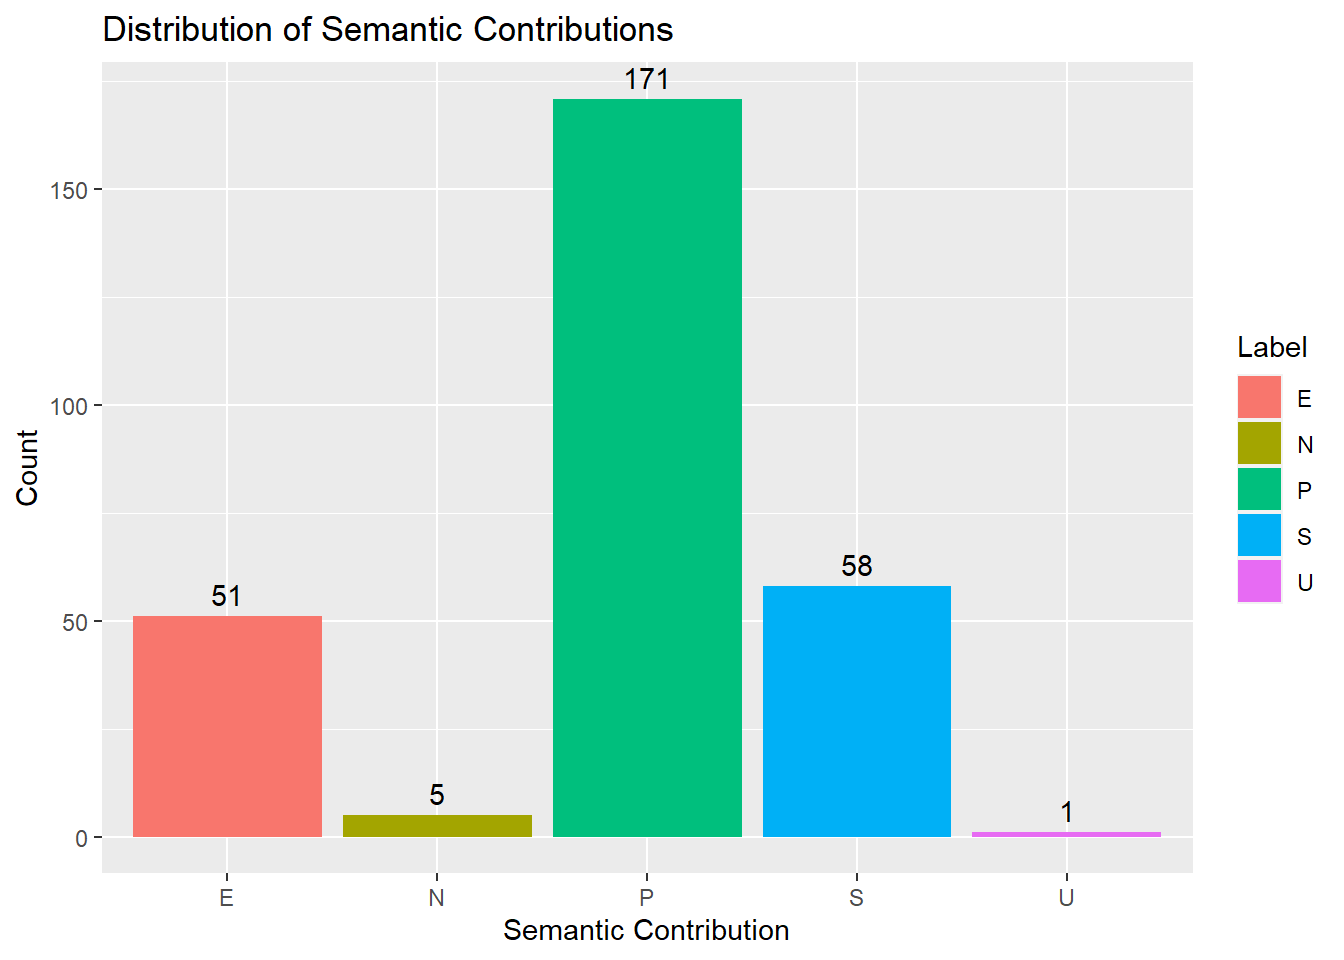
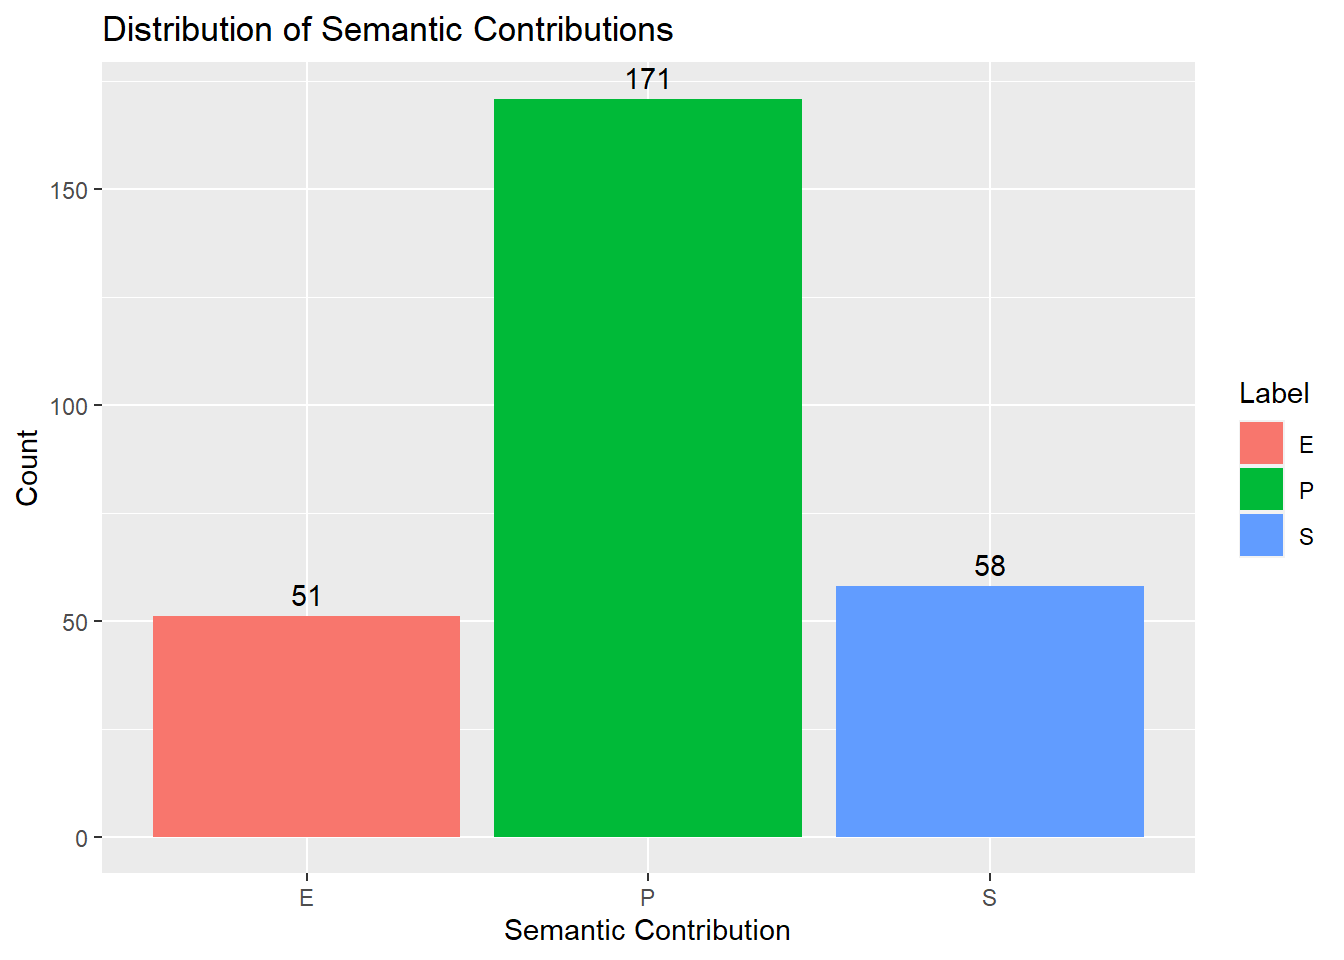
update stats

diff --git a/scripts/ReduplicationFinal.html b/scripts/ReduplicationFinal.html
@@ -97,17 +97,17 @@ pre > code.sourceCode > span > a:first-child::before { text-decoration: underlin
 <section id="data" class="level2">
 <h2 class="anchored" data-anchor-id="data">Data</h2>
 <div class="cell">
-<div class="sourceCode cell-code" id="cb1"><pre class="sourceCode r code-with-copy"><code class="sourceCode r"><span id="cb1-1"><a href="#cb1-1" aria-hidden="true" tabindex="-1"></a>data <span class="ot">&lt;-</span> <span class="fu">read.csv</span>(<span class="st">"../data/salad_consolidated.csv"</span>)</span>
+<div class="sourceCode cell-code" id="cb1"><pre class="sourceCode r code-with-copy"><code class="sourceCode r"><span id="cb1-1"><a href="#cb1-1" aria-hidden="true" tabindex="-1"></a>data <span class="ot">&lt;-</span> <span class="fu">read.csv</span>(<span class="st">"../data/salad_consolidated_refined.csv"</span>)</span>
 <span id="cb1-2"><a href="#cb1-2" aria-hidden="true" tabindex="-1"></a></span>
 <span id="cb1-3"><a href="#cb1-3" aria-hidden="true" tabindex="-1"></a><span class="fu">head</span>(data)</span></code><button title="Copy to Clipboard" class="code-copy-button"><i class="bi"></i></button></pre></div>
 <div class="cell-output cell-output-stdout">
 <pre><code>        Word Label POS
 1       adam     S  NN
-2      again     N  RB
+2 aggressive     P  JJ
 3 aggressive     P  JJ
-4 aggressive     P  JJ
-5      alone     E  JJ
-6    amherst     P  NN</code></pre>
+4      alone     E  JJ
+5    amherst     P  NN
+6   anywhere     E  RB</code></pre>
 </div>
 </div>
 <div class="cell">
@@ -151,12 +151,15 @@ pre > code.sourceCode > span > a:first-child::before { text-decoration: underlin
 <span id="cb6-4"><a href="#cb6-4" aria-hidden="true" tabindex="-1"></a><span class="fu">summary</span>(data)</span></code><button title="Copy to Clipboard" class="code-copy-button"><i class="bi"></i></button></pre></div>
 <div class="cell-output cell-output-stdout">
 <pre><code>     Word              Label               POS           
- Length:286         Length:286         Length:286        
+ Length:280         Length:280         Length:280        
  Class :character   Class :character   Class :character  
  Mode  :character   Mode  :character   Mode  :character  </code></pre>
 </div>
 <div class="sourceCode cell-code" id="cb8"><pre class="sourceCode r code-with-copy"><code class="sourceCode r"><span id="cb8-1"><a href="#cb8-1" aria-hidden="true" tabindex="-1"></a><span class="fu">ggplot</span>(data, <span class="fu">aes</span>(<span class="at">x =</span> POS, <span class="at">fill =</span> Label)) <span class="sc">+</span></span>
-<span id="cb8-2"><a href="#cb8-2" aria-hidden="true" tabindex="-1"></a>  <span class="fu">geom_bar</span>()</span></code><button title="Copy to Clipboard" class="code-copy-button"><i class="bi"></i></button></pre></div>
+<span id="cb8-2"><a href="#cb8-2" aria-hidden="true" tabindex="-1"></a>  <span class="fu">geom_bar</span>() <span class="sc">+</span> </span>
+<span id="cb8-3"><a href="#cb8-3" aria-hidden="true" tabindex="-1"></a>  <span class="fu">labs</span>(<span class="at">title =</span> <span class="st">"Distribution of Semantic Contributions by POS"</span>,</span>
+<span id="cb8-4"><a href="#cb8-4" aria-hidden="true" tabindex="-1"></a>       <span class="at">x =</span> <span class="st">"POS"</span>,</span>
+<span id="cb8-5"><a href="#cb8-5" aria-hidden="true" tabindex="-1"></a>       <span class="at">y =</span> <span class="st">"Count"</span>)</span></code><button title="Copy to Clipboard" class="code-copy-button"><i class="bi"></i></button></pre></div>
 <div class="cell-output-display">
 <p><img src="ReduplicationFinal_files/figure-html/unnamed-chunk-5-1.png" class="img-fluid" width="672"></p>
 </div>
@@ -167,12 +170,10 @@ pre > code.sourceCode > span > a:first-child::before { text-decoration: underlin
 <div class="cell">
 <div class="sourceCode cell-code" id="cb9"><pre class="sourceCode r code-with-copy"><code class="sourceCode r"><span id="cb9-1"><a href="#cb9-1" aria-hidden="true" tabindex="-1"></a>model <span class="ot">&lt;-</span> <span class="fu">multinom</span>(Label <span class="sc">~</span> POS, <span class="at">data =</span> data)</span></code><button title="Copy to Clipboard" class="code-copy-button"><i class="bi"></i></button></pre></div>
 <div class="cell-output cell-output-stdout">
-<pre><code># weights:  25 (16 variable)
-initial  value 460.299243 
-iter  10 value 272.450224
-iter  20 value 266.662545
-iter  30 value 266.619641
-final  value 266.619586 
+<pre><code># weights:  15 (8 variable)
+initial  value 307.611441 
+iter  10 value 238.451445
+final  value 238.446464 
 converged</code></pre>
 </div>
 <div class="sourceCode cell-code" id="cb11"><pre class="sourceCode r code-with-copy"><code class="sourceCode r"><span id="cb11-1"><a href="#cb11-1" aria-hidden="true" tabindex="-1"></a><span class="fu">summary</span>(model)</span></code><button title="Copy to Clipboard" class="code-copy-button"><i class="bi"></i></button></pre></div>
@@ -181,21 +182,82 @@ converged</code></pre>
 multinom(formula = Label ~ POS, data = data)
 
 Coefficients:
-  (Intercept)     POSNN      POSRB     POSVB
-N -18.6967722 17.310567 17.0874910 17.087369
-P   0.1880767  1.990486  0.3997534  1.247070
-S  -1.7579044  2.769484  2.6334065  2.227932
-U -17.4119989  1.150131  2.6829862 15.802574
+  (Intercept)    POSNN     POSRB    POSVB
+P   0.1880563 1.990487 0.3997348 1.247021
+S  -1.7578396 2.769452 2.6332902 2.227846
 
 Std. Errors:
-  (Intercept)       POSNN       POSRB       POSVB
-N   0.4195643   0.6199648   0.8808955   0.8809328
-P   0.2511057   0.3947439   0.6116954   0.5573874
-S   0.4842460   0.5900282   0.7196073   0.7480007
-U 267.5999250 113.3650305 360.9085057 267.6010466
+  (Intercept)     POSNN     POSRB     POSVB
+P   0.2511061 0.3947435 0.6116885 0.5573802
+S   0.4842312 0.5900145 0.7195921 0.7479828
 
-Residual Deviance: 533.2392 
-AIC: 565.2392 </code></pre>
+Residual Deviance: 476.8929 
+AIC: 492.8929 </code></pre>
+</div>
+</div>
+<div class="cell">
+<div class="sourceCode cell-code" id="cb13"><pre class="sourceCode r code-with-copy"><code class="sourceCode r"><span id="cb13-1"><a href="#cb13-1" aria-hidden="true" tabindex="-1"></a>z <span class="ot">&lt;-</span> <span class="fu">summary</span>(model)<span class="sc">$</span>coefficients<span class="sc">/</span><span class="fu">summary</span>(model)<span class="sc">$</span>standard.errors</span>
+<span id="cb13-2"><a href="#cb13-2" aria-hidden="true" tabindex="-1"></a>z</span></code><button title="Copy to Clipboard" class="code-copy-button"><i class="bi"></i></button></pre></div>
+<div class="cell-output cell-output-stdout">
+<pre><code>  (Intercept)    POSNN     POSRB    POSVB
+P   0.7489118 5.042483 0.6534942 2.237289
+S  -3.6301656 4.693871 3.6594206 2.978472</code></pre>
+</div>
+</div>
+<div class="cell">
+<div class="sourceCode cell-code" id="cb15"><pre class="sourceCode r code-with-copy"><code class="sourceCode r"><span id="cb15-1"><a href="#cb15-1" aria-hidden="true" tabindex="-1"></a>p <span class="ot">&lt;-</span> (<span class="dv">1</span> <span class="sc">-</span> <span class="fu">pnorm</span>(<span class="fu">abs</span>(z), <span class="dv">0</span>, <span class="dv">1</span>)) <span class="sc">*</span> <span class="dv">2</span></span>
+<span id="cb15-2"><a href="#cb15-2" aria-hidden="true" tabindex="-1"></a>p</span></code><button title="Copy to Clipboard" class="code-copy-button"><i class="bi"></i></button></pre></div>
+<div class="cell-output cell-output-stdout">
+<pre><code>   (Intercept)        POSNN        POSRB       POSVB
+P 0.4539103580 4.595306e-07 0.5134377591 0.025267459
+S 0.0002832394 2.680833e-06 0.0002527862 0.002896896</code></pre>
+</div>
+</div>
+<div class="cell">
+<div class="sourceCode cell-code" id="cb17"><pre class="sourceCode r code-with-copy"><code class="sourceCode r"><span id="cb17-1"><a href="#cb17-1" aria-hidden="true" tabindex="-1"></a><span class="fu">head</span>(pp <span class="ot">&lt;-</span> <span class="fu">fitted</span>(model), <span class="at">n=</span><span class="dv">20</span>)</span></code><button title="Copy to Clipboard" class="code-copy-button"><i class="bi"></i></button></pre></div>
+<div class="cell-output cell-output-stdout">
+<pre><code>            E         P          S
+1  0.07946939 0.7019874 0.21854326
+2  0.42028842 0.5072467 0.07246485
+3  0.42028842 0.5072467 0.07246485
+4  0.42028842 0.5072467 0.07246485
+5  0.07946939 0.7019874 0.21854326
+6  0.19230901 0.3461578 0.46153322
+7  0.07946939 0.7019874 0.21854326
+8  0.07946939 0.7019874 0.21854326
+9  0.19230901 0.3461578 0.46153322
+10 0.07946939 0.7019874 0.21854326
+11 0.42028842 0.5072467 0.07246485
+12 0.42028842 0.5072467 0.07246485
+13 0.07946939 0.7019874 0.21854326
+14 0.07946939 0.7019874 0.21854326
+15 0.14705943 0.6176449 0.23529567
+16 0.07946939 0.7019874 0.21854326
+17 0.07946939 0.7019874 0.21854326
+18 0.42028842 0.5072467 0.07246485
+19 0.07946939 0.7019874 0.21854326
+20 0.07946939 0.7019874 0.21854326</code></pre>
+</div>
+</div>
+<p>Values repeat by POS, so extracting one example of each will give us the probability of having a certain semantic contribution given POS.</p>
+<p>Example 1: NN, Example 2: JJ, Example 6: RB, Example 15: VB</p>
+<div class="cell">
+<div class="sourceCode cell-code" id="cb19"><pre class="sourceCode r code-with-copy"><code class="sourceCode r"><span id="cb19-1"><a href="#cb19-1" aria-hidden="true" tabindex="-1"></a><span class="fu">library</span>(tibble)</span>
+<span id="cb19-2"><a href="#cb19-2" aria-hidden="true" tabindex="-1"></a></span>
+<span id="cb19-3"><a href="#cb19-3" aria-hidden="true" tabindex="-1"></a>(my_tibble <span class="ot">&lt;-</span> <span class="fu">tibble</span>(</span>
+<span id="cb19-4"><a href="#cb19-4" aria-hidden="true" tabindex="-1"></a>  <span class="at">Part.of.Speech =</span> <span class="fu">c</span>(<span class="st">"NN"</span>, <span class="st">"JJ"</span>, <span class="st">"RB"</span>, <span class="st">"VB"</span>),</span>
+<span id="cb19-5"><a href="#cb19-5" aria-hidden="true" tabindex="-1"></a>  <span class="at">E =</span> <span class="fu">c</span>(<span class="fl">0.07946939</span>, <span class="fl">0.42028842</span>, <span class="fl">0.19230901</span>, <span class="fl">0.14705943</span>),</span>
+<span id="cb19-6"><a href="#cb19-6" aria-hidden="true" tabindex="-1"></a>  <span class="at">P =</span> <span class="fu">c</span>(<span class="fl">0.7019874</span>, <span class="fl">0.5072467</span>, <span class="fl">0.3461578</span>, <span class="fl">0.6176449</span>),</span>
+<span id="cb19-7"><a href="#cb19-7" aria-hidden="true" tabindex="-1"></a>  <span class="at">S =</span> <span class="fu">c</span>(<span class="fl">0.21854326</span>, <span class="fl">0.07246485</span>, <span class="fl">0.46153322</span>, <span class="fl">0.23529567</span>)</span>
+<span id="cb19-8"><a href="#cb19-8" aria-hidden="true" tabindex="-1"></a>))</span></code><button title="Copy to Clipboard" class="code-copy-button"><i class="bi"></i></button></pre></div>
+<div class="cell-output cell-output-stdout">
+<pre><code># A tibble: 4 × 4
+  Part.of.Speech      E     P      S
+  &lt;chr&gt;           &lt;dbl&gt; &lt;dbl&gt;  &lt;dbl&gt;
+1 NN             0.0795 0.702 0.219 
+2 JJ             0.420  0.507 0.0725
+3 RB             0.192  0.346 0.462 
+4 VB             0.147  0.618 0.235 </code></pre>
 </div>
 </div>
 </section>
